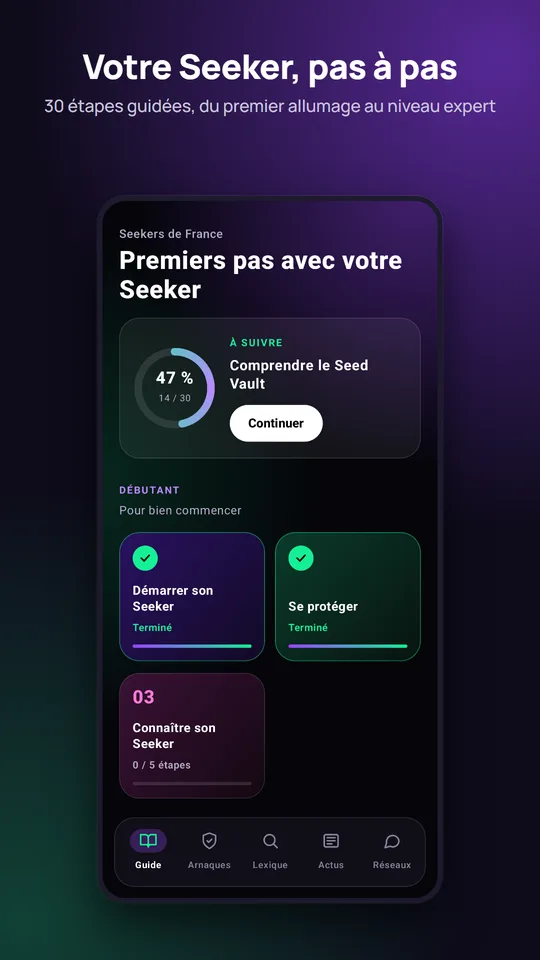
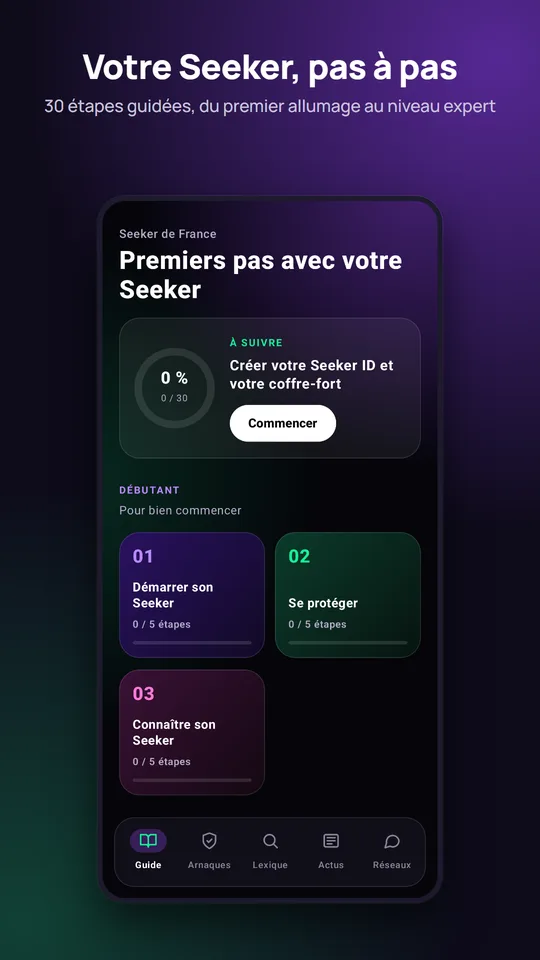
App : actus sans nom anglais du coffre-fort, app.html revue (résumé en anglais)
Le dApp Store refuse une app non-portefeuille qui cite le Seed Vault (refus du 14/11).
actus.json (lu par l'app) remplace ce nom ; app.html le retire et ajoute un résumé en anglais.

diff --git a/app.html b/app.html
@@ -94,7 +94,7 @@
   <section class="block">
     <h2>Ce que fait l’application</h2>
     <ul class="cards">
-      <li class="card"><h3>Guide pas à pas</h3><p>30 étapes en 7 chapitres, du premier allumage au niveau expert&nbsp;: Seed Vault, sauvegarde de vos 24 mots, portefeuille, premières apps, Genesis Token, récompenses, signatures. Vous cochez chaque étape, l’app retient où vous en êtes.</p></li>
+      <li class="card"><h3>Guide pas à pas</h3><p>30 étapes en 7 chapitres, du premier allumage au niveau expert&nbsp;: le coffre-fort du Seeker, sauvegarde de vos 24 mots, portefeuille, premières apps, Genesis Token, récompenses, signatures. Vous cochez chaque étape, l’app retient où vous en êtes.</p></li>
       <li class="card"><h3>Détecteur d’arnaque</h3><p>Collez un message suspect&nbsp;: l’app repère les signaux classiques (demande de vos 24 mots, faux sites, faux airdrops, faux support) et explique pourquoi. L’analyse se fait sur votre téléphone, votre texte n’est envoyé nulle part.</p></li>
       <li class="card"><h3>Lexique</h3><p>134 mots de Solana et du Seeker traduits et expliqués simplement, classés par thème, avec une recherche.</p></li>
       <li class="card"><h3>Actus expliquées</h3><p>Les annonces officielles de Solana Mobile résumées en français&nbsp;: ce qui a été annoncé, et ce que ça change pour vous. Elles se mettent à jour sans nouvelle version de l’app.</p></li>
@@ -111,6 +111,12 @@
     <figure class="hero-media tel">
       <img src="img/app/app-arnaques.webp" width="540" height="960" alt="Le détecteur d’arnaque de l’application classe un faux message comme très suspect" loading="lazy">
     </figure>
+  </section>
+
+  <section class="block" lang="en">
+    <h2>In English</h2>
+    <p>Seeker de France is a free Android app, in French, for owners of the Solana Seeker phone: a 30-step beginner guide, an on-device scam detector, a 134-word glossary and explained official news from Solana Mobile. No account, no ads, no analytics. The app does not connect to any wallet: it only uses the internet to download a public news file from this website.</p>
+    <p><a class="link" href="conditions.html#english">Terms of use</a> · <a class="link" href="confidentialite.html#english">Privacy policy</a> (French and English). Contact: <a class="link" href="mailto:solanachetis@gmail.com">solanachetis@gmail.com</a>. Unofficial community, not affiliated with Solana Mobile or the Solana Foundation.</p>
   </section>
 
   <section class="block">
